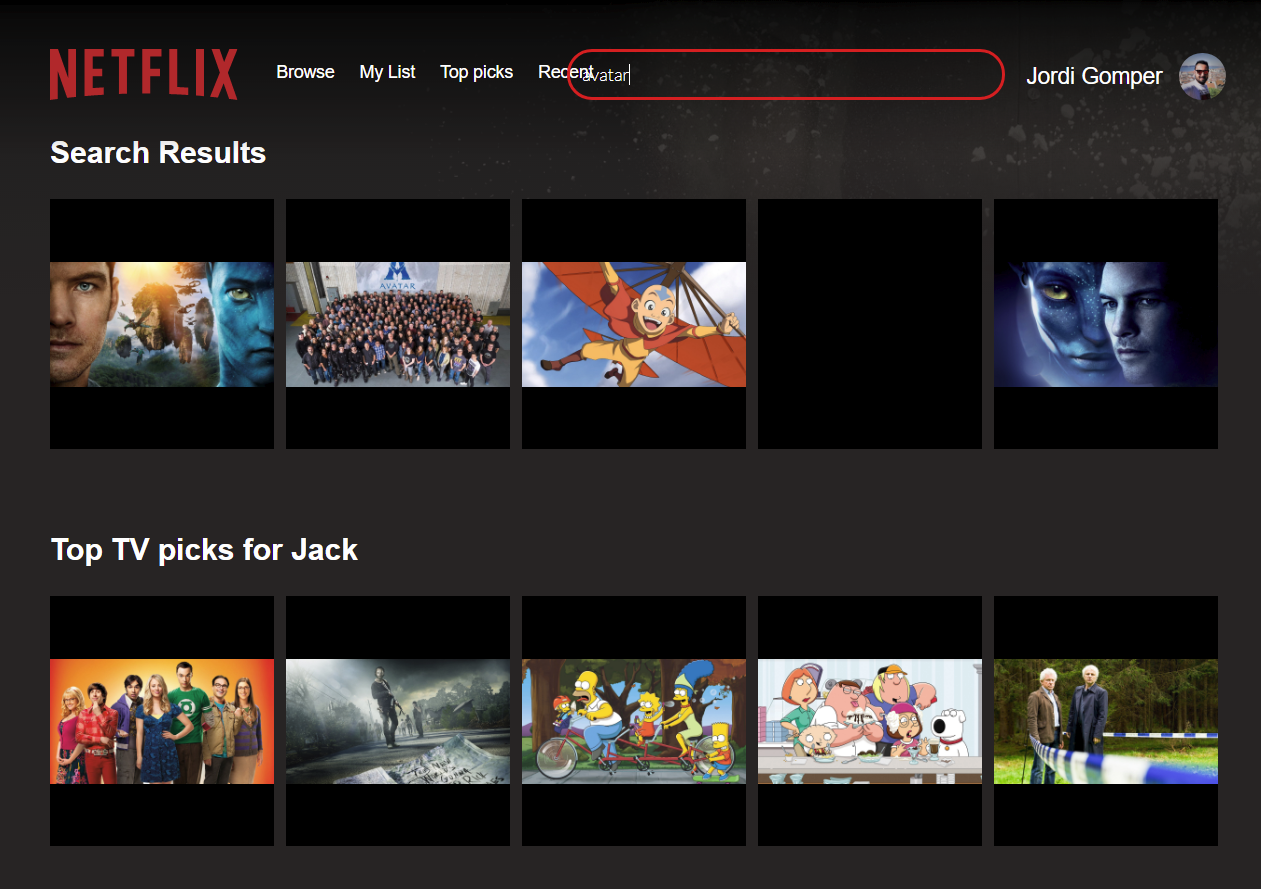
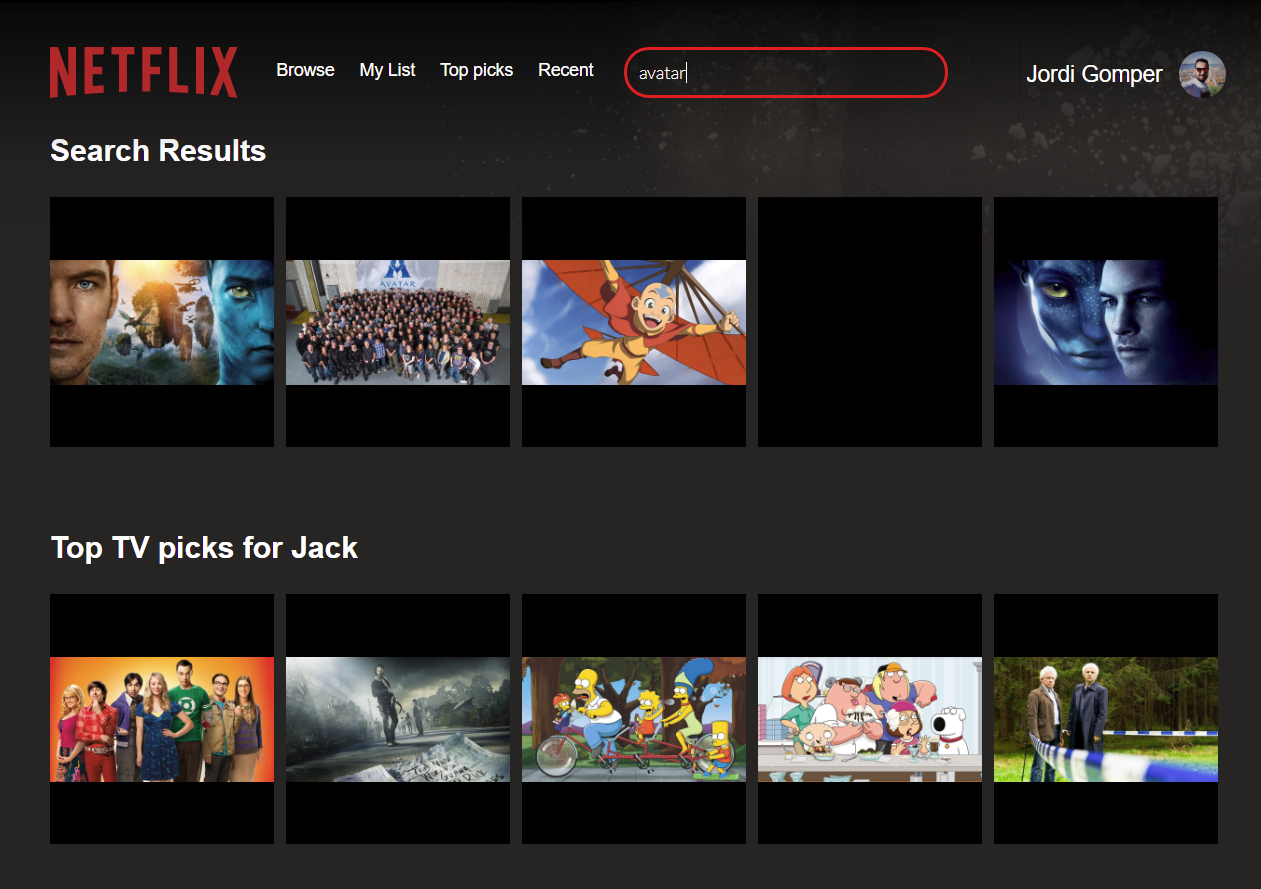
Se ha deshabilitado la expansion del input search al hacer focus ya que se sobre pone por encima de otros contendiso

diff --git a/css/App.css b/css/App.css
@@ -180,12 +180,9 @@ p {
   border-radius: 37px;
   padding: 0 10px;
   pointer-events: all;
-  -webkit-transition: border .25s ease, width .125s ease .125s;
-  transition: border .25s ease, width .125s ease .125s;
 }
 .Search input:focus {
   border: 2px solid #e50914;
-  width: 30%;
 }
 
 .UserProfile {
